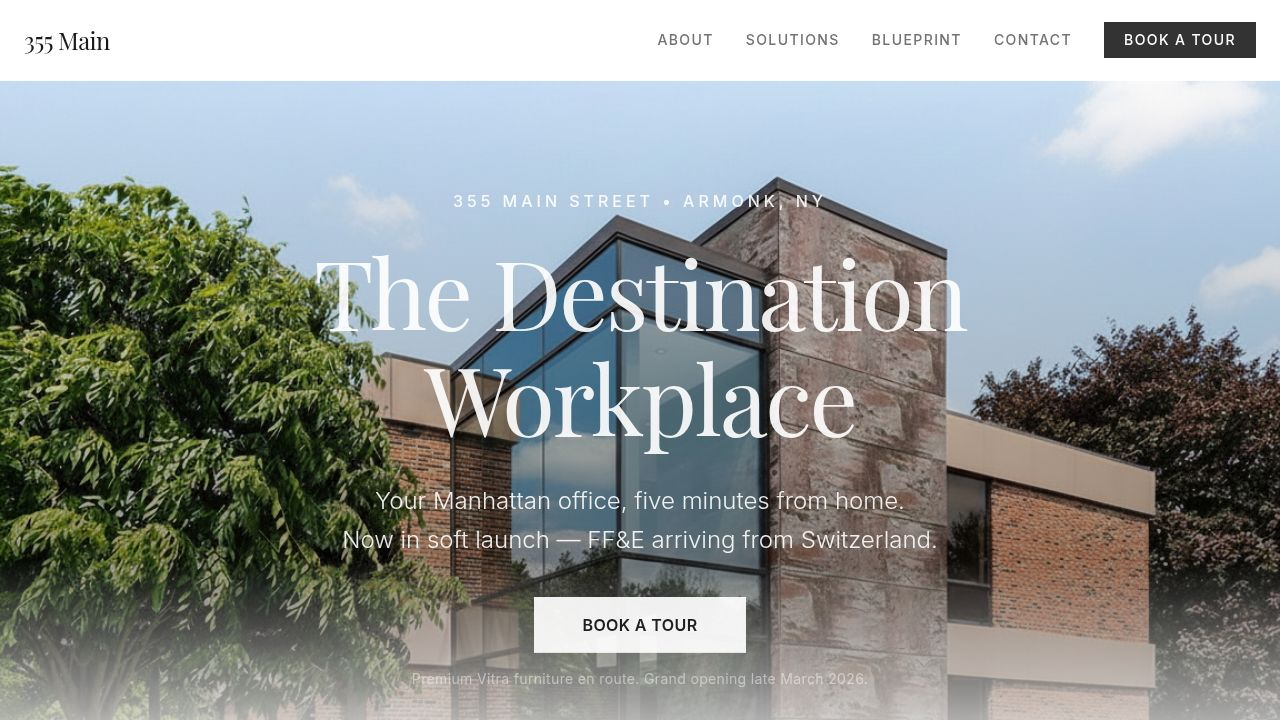
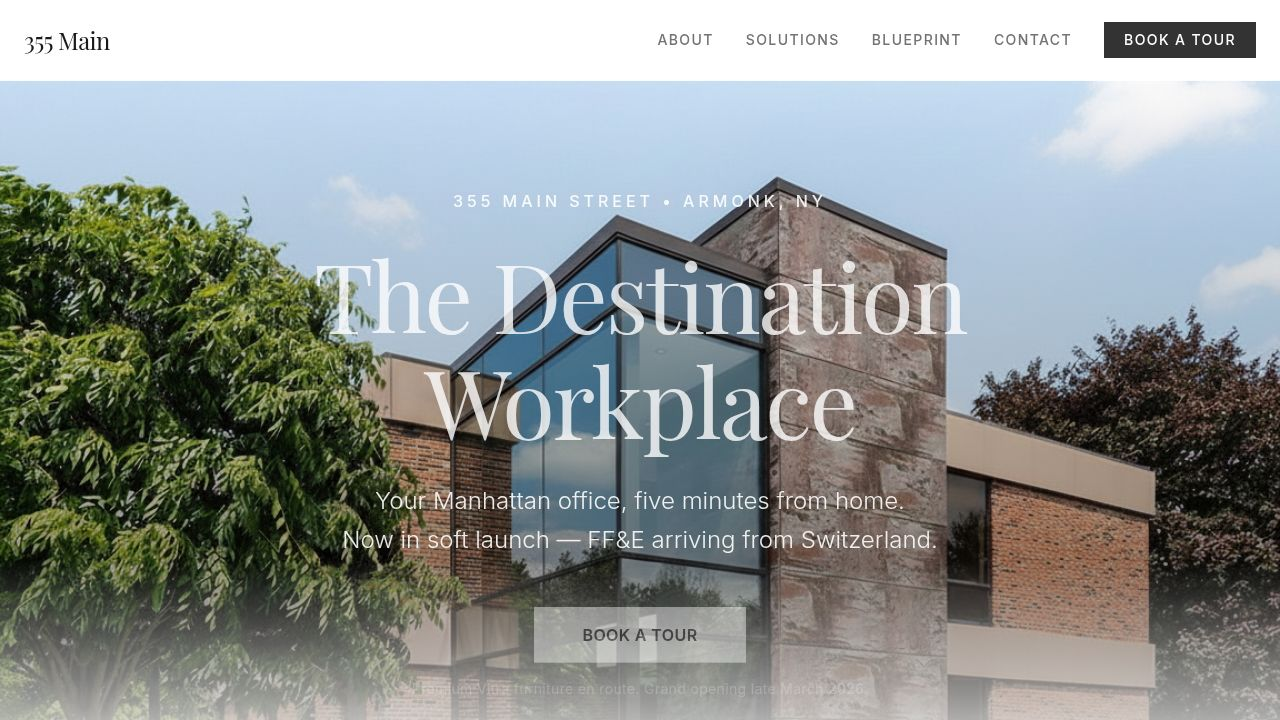
Update photo labels in the gallery to reflect new naming conventions
Rename 'Kitchen' to 'Cafe' and 'Pantry' to 'Break Room' in the photo gallery component.

Replit-Commit-Author: Agent
Replit-Commit-Session-Id: a01b8578-0d19-4f92-96b3-3c75e4bcfdba
Replit-Commit-Checkpoint-Type: full_checkpoint
Replit-Commit-Event-Id: 7cfe08f6-45ce-4f21-bd3c-c5b30c9f9bf9
Replit-Commit-Screenshot-Url: https://storage.googleapis.com/screenshot-production-us-central1/9f72cabb-9bf3-4c30-9f3f-5f475a08b80e/a01b8578-0d19-4f92-96b3-3c75e4bcfdba/N2HX3Im
Replit-Helium-Checkpoint-Created: true

diff --git a/client/src/pages/home.tsx b/client/src/pages/home.tsx
@@ -529,8 +529,8 @@ const spacePhotos = [
   { src: spaceLobbyReception, alt: "Reception area with curved glass partition and emerald velvet seating", label: "Reception" },
   { src: spaceLobbySeating, alt: "Emerald velvet banquette seating in the lobby", label: "Lounge Seating" },
   { src: spaceExecutiveSuite, alt: "Executive suite with curved glass wall and pendant lighting", label: "Executive Suite" },
-  { src: spaceKitchenIsland, alt: "Pantry with dark tile backsplash and kitchen island", label: "Kitchen" },
-  { src: spacePantry, alt: "Pantry with built-in cabinetry and tile accent wall", label: "Pantry" },
+  { src: spaceKitchenIsland, alt: "Cafe with dark tile backsplash and kitchen island", label: "Cafe" },
+  { src: spacePantry, alt: "Break room with built-in cabinetry and tile accent wall", label: "Break Room" },
   { src: spaceMeetingRoom, alt: "Meeting room with pendant light and round table", label: "Meeting Room" },
   { src: spacePrivateOffice1, alt: "Private office with natural light and accent wall", label: "Private Office" },
   { src: spacePrivateOffice2, alt: "Corner office with expansive windows and natural light", label: "Corner Office" },